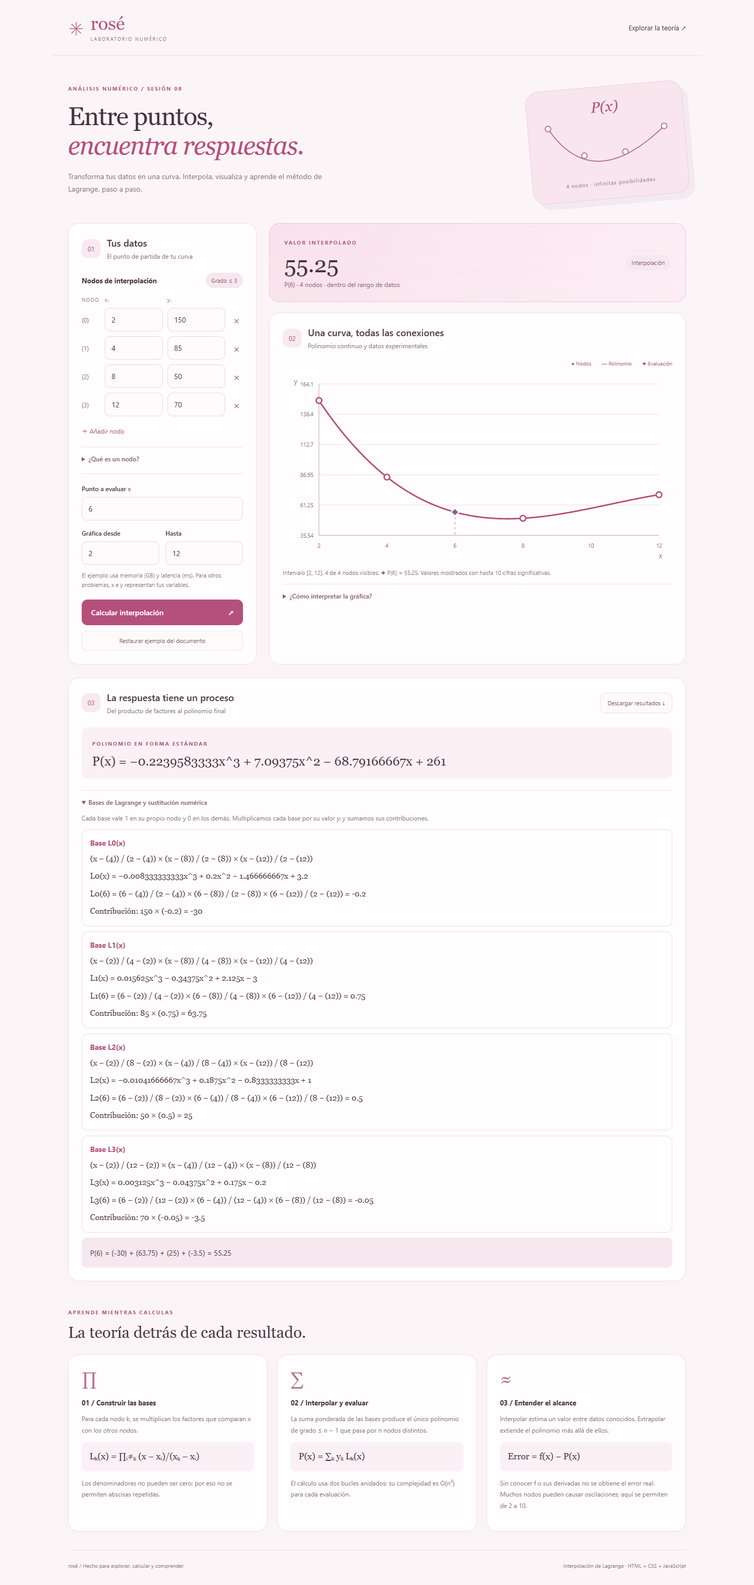
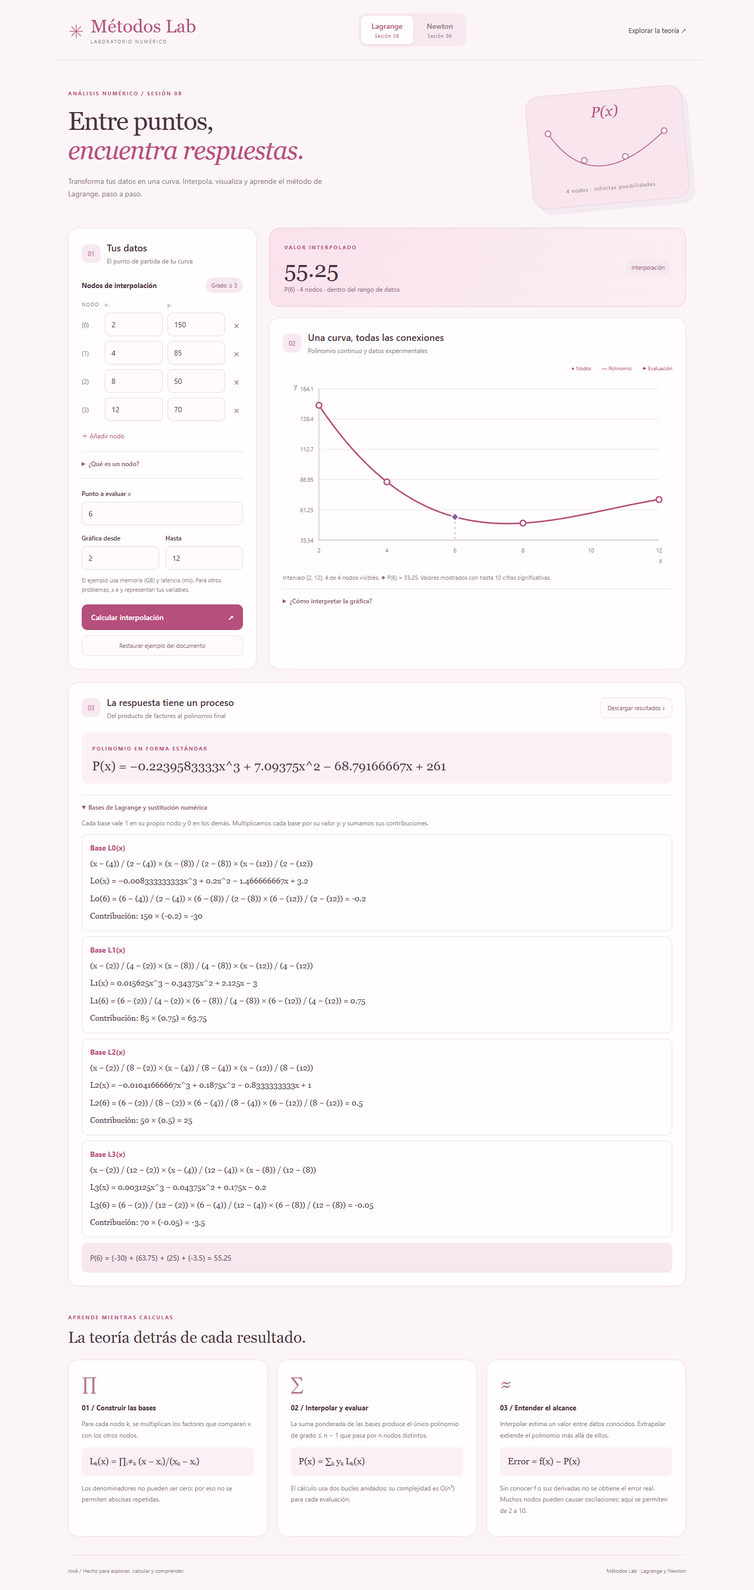
Agregar calculadora newton

diff --git a/script.js b/script.js
@@ -31,6 +31,30 @@ function polynomialBases(nodes) {
     return coefficients;
   });
 }
+// Tabla triangular: table[i][j] = f[x_i, ..., x_(i+j)].
+function diferencias_divididas(X, Y) {
+  if (X.length !== Y.length || X.length < 2 || new Set(X).size !== X.length || ![...X,...Y].every(Number.isFinite)) throw Error('Usa al menos dos nodos finitos con abscisas distintas.');
+  const table = Y.map(y => [y]);
+  for (let j=1;j<X.length;j++) for(let i=0;i<X.length-j;i++)
+    table[i][j]=(table[i+1][j-1]-table[i][j-1])/(X[i+j]-X[i]);
+  return table;
+}
+function newton(nodes, x) {
+  const table = diferencias_divididas(nodes.map(n=>n.x),nodes.map(n=>n.y));
+  const coefficients=table[0];
+  let value=coefficients[coefficients.length-1];
+  for(let i=coefficients.length-2;i>=0;i--) value=coefficients[i]+(x-nodes[i].x)*value;
+  return {value, table, coefficients};
+}
+function newtonPolynomial(nodes, coefficients) {
+  let result=[coefficients.at(-1)];
+  for(let i=coefficients.length-2;i>=0;i--) {
+    const next=Array(result.length+1).fill(0);
+    result.forEach((c,j)=>{next[j]-=nodes[i].x*c;next[j+1]+=c;});
+    next[0]+=coefficients[i];result=next;
+  }
+  return result;
+}
 function fmt(x) { return Object.is(x, -0) || x === 0 ? '0' : Number(x.toPrecision(10)).toString(); }
 function polynomialText(coefficients) {
   const terms = [];
@@ -43,11 +67,18 @@ function polynomialText(coefficients) {
   }
   return terms.join('') || '0';
 }
-if (typeof module !== 'undefined') module.exports = { lagrange, polynomialBases, polynomialText };
+if (typeof module !== 'undefined') module.exports = { lagrange, polynomialBases, polynomialText, diferencias_divididas, newton, newtonPolynomial };
 if (typeof document !== 'undefined') {
   const $ = id => document.getElementById(id);
   const example = [{x:2,y:150},{x:4,y:85},{x:8,y:50},{x:12,y:70}];
   let latest = null;
+  let method = 'lagrange';
+  const saved = {};
+  const originalTheory = document.querySelector('.theory-grid').innerHTML;
+  const originalDescription = $('heroDescription').textContent;
+  const originalHint = $('exampleHint').textContent;
+  const newtonExample = [{x:1,y:45},{x:2,y:65},{x:4,y:110},{x:7,y:220}];
+  const evaluate = (nodes,x) => method==='newton' ? newton(nodes,x) : lagrange(nodes,x);
   function addRow(x = '', y = '') {
     const row = document.createElement('div'); row.className = 'node-row';
     row.innerHTML = '<span class="node-index"></span><input type="number" step="any" required class="node-x"><input type="number" step="any" required class="node-y"><button class="remove" type="button">×</button>';
@@ -76,9 +107,11 @@ if (typeof document !== 'undefined') {
       if (![x,min,max,...nodes.flatMap(n => [n.x,n.y])].every(Number.isFinite)) throw Error('Introduce únicamente números finitos.');
       if (new Set(nodes.map(n => n.x)).size !== nodes.length) throw Error('Los valores de x deben ser distintos. Dos nodos con la misma x provocan una división por cero.');
       if (min >= max) throw Error('El límite inicial de la gráfica debe ser menor que el final.');
-      const result = lagrange(nodes,x), bases = polynomialBases(nodes);
-      const coefficients = Array(nodes.length).fill(0);
+      const result = evaluate(nodes,x), bases = polynomialBases(nodes);
+      if(method==='newton') result.bases = lagrange(nodes,x).bases;
+      let coefficients = Array(nodes.length).fill(0);
       bases.forEach((b,k) => b.forEach((c,j) => {coefficients[j] += c * nodes[k].y;}));
+      if(method==='newton') coefficients=newtonPolynomial(nodes,result.coefficients);
       if (![result.value,...result.bases,...coefficients,...bases.flat()].every(Number.isFinite)) throw Error('Los datos exceden la capacidad numérica. Usa valores de menor magnitud o nodos más separados.');
       const outside = x < Math.min(...nodes.map(n=>n.x)) || x > Math.max(...nodes.map(n=>n.x));
       $('result').textContent = fmt(result.value);
@@ -95,21 +128,22 @@ if (typeof document !== 'undefined') {
         $('bases').append(item);
       });
       $('sum').textContent=`P(${fmt(x)}) = ${nodes.map((n,k)=>`(${fmt(n.y * result.bases[k])})`).join(' + ')} = ${fmt(result.value)}`;
+      if(method==='newton') renderNewton(nodes,x,coefficients);
       draw(nodes,x,result.value,min,max);
-      latest = `INTERPOLACIÓN DE LAGRANGE\nNodos: ${nodes.map(n=>`(${n.x}, ${n.y})`).join(', ')}\nP(x) = ${polynomialText(coefficients)}\n${$('bases').innerText}\n${$('sum').textContent}\nTipo: ${outside?'Extrapolación':'Interpolación'}\nValores redondeados a 10 cifras significativas.\n`;
+      latest = `INTERPOLACIÓN DE ${method.toUpperCase()}\nNodos: ${nodes.map(n=>`(${n.x}, ${n.y})`).join(', ')}\nP(x) = ${polynomialText(coefficients)}\n${method==='newton' ? $('newtonTableSection').innerText : ''}\n${$('bases').innerText}\n${$('sum').textContent}\nTipo: ${outside?'Extrapolación':'Interpolación'}\nValores redondeados a 10 cifras significativas.\n`;
       $('export').disabled = false;
     } catch(e) { $('error').textContent=e.message; $('error').hidden=false; stale(); }
   }
   // SVG sin bibliotecas: muestrea el polinomio para dibujar su curva continua.
   function draw(nodes,x,y,min,max) {
-    const samples=Array.from({length:401},(_,i)=>{const sx=min+(max-min)*i/400;return {x:sx,y:lagrange(nodes,sx).value};});
+    const samples=Array.from({length:401},(_,i)=>{const sx=min+(max-min)*i/400;return {x:sx,y:evaluate(nodes,sx).value};});
     if (!samples.every(p=>Number.isFinite(p.x)&&Number.isFinite(p.y))) throw Error('El intervalo genera desbordamiento. Reduce los límites de la gráfica.');
     const visible=nodes.filter(n=>n.x>=min&&n.x<=max), evalVisible=x>=min&&x<=max;
     const ys=[...samples.map(p=>p.y),...visible.map(p=>p.y),...(evalVisible?[y]:[])];
     let low=Math.min(...ys),high=Math.max(...ys); const pad=(high-low)*.14 || Math.max(1,Math.abs(high)*.1); low-=pad; high+=pad;
     if (!Number.isFinite(high-low) || !Number.isFinite(max-min)) throw Error('El rango es demasiado grande para graficar.');
     const W=700,H=340,L=65,R=24,T=20,B=48,px=v=>L+(v-min)/(max-min)*(W-L-R),py=v=>H-B-(v-low)/(high-low)*(H-T-B);
-    let svg=`<svg viewBox="0 0 ${W} ${H}" role="img" aria-label="Gráfica del polinomio de Lagrange, sus nodos y el punto evaluado"><title>Interpolación de Lagrange</title>`;
+    let svg=`<svg viewBox="0 0 ${W} ${H}" role="img" aria-label="Gráfica del polinomio interpolador, sus nodos y el punto evaluado"><title>Interpolación de ${method}</title>`;
     for(let i=0;i<=5;i++){const vx=min+(max-min)*i/5,vy=low+(high-low)*i/5;svg+=`<path d="M${L} ${py(vy)}H${W-R}" stroke="#efdee5"/><text x="${L-10}" y="${py(vy)+4}" text-anchor="end" fill="#8a7380" font-size="10">${Number(vy.toPrecision(4))}</text><text x="${px(vx)}" y="${H-B+22}" text-anchor="middle" fill="#8a7380" font-size="10">${Number(vx.toPrecision(4))}</text>`;}
     svg+=`<path d="M${L} ${T}V${H-B}H${W-R}" fill="none" stroke="#cbb6c0"/><text x="${W-R}" y="${H-7}" fill="#8a7380" font-size="12">x</text><text x="20" y="20" fill="#8a7380" font-size="12">y</text><path d="${samples.map((p,i)=>`${i?'L':'M'}${px(p.x).toFixed(2)},${py(p.y).toFixed(2)}`).join(' ')}" fill="none" stroke="#b54f7c" stroke-width="2.7"/>`;
     visible.forEach(n=>{svg+=`<circle cx="${px(n.x)}" cy="${py(n.y)}" r="5" fill="#fff" stroke="#b54f7c" stroke-width="2.5"><title>Nodo (${fmt(n.x)}, ${fmt(n.y)})</title></circle>`;});
@@ -117,10 +151,53 @@ if (typeof document !== 'undefined') {
     $('chart').innerHTML=svg+'</svg>';
     $('chartNote').textContent=`Intervalo [${fmt(min)}, ${fmt(max)}]. ${visible.length} de ${nodes.length} nodos visibles. ${evalVisible ? `◆ P(${fmt(x)}) = ${fmt(y)}.` : 'El punto evaluado queda fuera de la gráfica; amplía el intervalo para verlo.'} Valores mostrados con hasta 10 cifras significativas.`;
   }
-  function reset(){ $('nodes').replaceChildren(); example.forEach(n=>addRow(n.x,n.y));$('evalX').value=6;$('minX').value=2;$('maxX').value=12;calculate(); }
+  function renderNewton(nodes,x) {
+    const result=newton(nodes,x), standard=newtonPolynomial(nodes,result.coefficients);
+    if (![result.value,...result.table.flat(),...standard].every(Number.isFinite)) throw Error('Los datos exceden la capacidad numérica.');
+    $('result').textContent=fmt(result.value);
+    $('polynomial').textContent=`P(x) = ${polynomialText(standard)}`;
+    $('newtonTableSection').innerHTML=`<h3>Tabla de diferencias divididas</h3><div class="table-scroll"><table class="difference-table"><thead><tr><th>i</th><th>xᵢ</th>${nodes.map((_,j)=>`<th>${j===0?'f[xᵢ]':`Orden ${j}`}</th>`).join('')}</tr></thead><tbody>${nodes.map((n,i)=>`<tr><td>${i}</td><td>${fmt(n.x)}</td>${nodes.map((_,j)=>`<td>${result.table[i][j]===undefined?'—':fmt(result.table[i][j])}</td>`).join('')}</tr>`).join('')}</tbody></table></div><p class="hint">f[xᵢ,…,xᵢ₊ⱼ] = (f[xᵢ₊₁,…,xᵢ₊ⱼ] − f[xᵢ,…,xᵢ₊ⱼ₋₁]) / (xᵢ₊ⱼ − xᵢ). La primera fila contiene los coeficientes de Newton.</p>`;
+    $('bases').replaceChildren();
+    let product=1;const contributions=[];
+    result.coefficients.forEach((c,k)=>{
+      if(k)product*=x-nodes[k-1].x;
+      contributions.push(c*product);
+      const item=document.createElement('article');item.className='base-item';
+      const factors=nodes.slice(0,k).map(n=>`(x − (${fmt(n.x)}))`).join(' × ') || '1';
+      item.innerHTML=`<strong>Término ${k} · a${k} = ${fmt(c)}</strong><p class="math">${fmt(c)} × ${factors}</p><p class="math">En x = ${fmt(x)}: ${fmt(c)} × (${fmt(product)}) = ${fmt(c*product)}</p>`;
+      $('bases').append(item);
+    });
+    const verification=document.createElement('article');verification.className='base-item';
+    verification.innerHTML='<strong>Verificación en los nodos</strong>'+nodes.map(n=>{const actual=newton(nodes,n.x).value;return `<p class="math">P(${fmt(n.x)}) = ${fmt(actual)} · y = ${fmt(n.y)} · residuo = ${fmt(actual-n.y)}</p>`;}).join('');
+    $('bases').append(verification);
+    $('sum').textContent=`P(${fmt(x)}) = ${contributions.map(c=>`(${fmt(c)})`).join(' + ')} = ${fmt(result.value)}`;
+  }
+  function reset(){ $('nodes').replaceChildren(); (method==='newton'?newtonExample:example).forEach(n=>addRow(n.x,n.y));$('evalX').value=method==='newton'?5:6;$('minX').value=method==='newton'?1:2;$('maxX').value=method==='newton'?7:12;calculate(); }
+  function switchMethod(next) {
+    if(next===method)return;
+    saved[method]={nodes:[...$('nodes').children].map(row=>[row.querySelector('.node-x').value,row.querySelector('.node-y').value]),values:['evalX','minX','maxX'].map(id=>$(id).value)};
+    method=next;
+    document.querySelectorAll('[data-method]').forEach(b=>b.setAttribute('aria-pressed',String(b.dataset.method===method)));
+    const isNewton=method==='newton';
+    $('sessionLabel').textContent=`ANÁLISIS NUMÉRICO / SESIÓN ${isNewton?'09':'08'} · ${method.toUpperCase()}`;
+    $('heroTitle').innerHTML=isNewton?'Paso a paso,<br><em>construye la curva.</em>':'Entre puntos,<br><em>encuentra respuestas.</em>';
+    $('heroDescription').textContent=isNewton?'Explora la latencia de una API con el método de Newton. Construye diferencias divididas, evalúa y verifica cada resultado.':originalDescription;
+    $('exampleHint').textContent=isNewton?'Ejercicio: carga concurrente x en centenas de req/s y latencia y en ms. x = 5 representa 500 req/s.':originalHint;
+    $('processCaption').textContent=isNewton?'De las diferencias divididas al polinomio final':'Del producto de factores al polinomio final';
+    $('processTitle').textContent=isNewton?'Polinomio de Newton y sustitución numérica':'Bases de Lagrange y sustitución numérica';
+    $('processDescription').textContent=isNewton?'Los coeficientes son las diferencias divididas de la primera fila. Cada término incorpora un nuevo factor; la evaluación usa multiplicación anidada.':'Cada base vale 1 en su propio nodo y 0 en los demás. Multiplicamos cada base por su valor yᵢ y sumamos sus contribuciones.';
+    $('newtonTableSection').hidden=!isNewton;
+    document.querySelector('.theory-grid').innerHTML=isNewton?[
+      ['Δ','01 / Diferencias divididas','Se calculan por órdenes a partir de los valores conocidos. Los nodos deben tener abscisas distintas; no necesitan estar igualmente espaciados.','f[xᵢ,xⱼ] = (yⱼ − yᵢ)/(xⱼ − xᵢ)'],
+      ['∑','02 / Construir y evaluar','La primera fila de la tabla aporta los coeficientes. Construir la tabla cuesta O(n²) y evaluar con multiplicación anidada cuesta O(n).','P(x) = a₀ + a₁(x − x₀) + a₂(x − x₀)(x − x₁) + …'],
+      ['≈','03 / Verificar el modelo','Comprueba P(xᵢ) = yᵢ en cada nodo. Newton y Lagrange generan el mismo polinomio para los mismos datos. Extrapolar puede ser poco fiable.','Residuo en el nodo i = P(xᵢ) − yᵢ']
+    ].map(([icon,title,text,formula])=>`<article class="card"><span class="theory-icon">${icon}</span><h3>${title}</h3><p>${text}</p><div class="formula">${formula}</div></article>`).join(''):originalTheory;
+    if(saved[method]) { $('nodes').replaceChildren();saved[method].nodes.forEach(n=>addRow(...n));['evalX','minX','maxX'].forEach((id,i)=>$(id).value=saved[method].values[i]);calculate(); } else reset();
+  }
+  document.querySelectorAll('[data-method]').forEach(b=>b.onclick=()=>switchMethod(b.dataset.method));
   $('calculator').onsubmit=e=>{e.preventDefault();calculate();};
   $('calculator').addEventListener('input',stale);
   $('addNode').onclick=()=>{addRow();stale();}; $('example').onclick=reset;
-  $('export').onclick=()=>{if(!latest)return;const url=URL.createObjectURL(new Blob([latest],{type:'text/plain;charset=utf-8'}));const a=document.createElement('a');a.href=url;a.download='resultado-lagrange.txt';a.click();setTimeout(()=>URL.revokeObjectURL(url),1000);};
+  $('export').onclick=()=>{if(!latest)return;const url=URL.createObjectURL(new Blob([latest],{type:'text/plain;charset=utf-8'}));const a=document.createElement('a');a.href=url;a.download=`resultado-${method}.txt`;a.click();setTimeout(()=>URL.revokeObjectURL(url),1000);};
   reset();
 }

diff --git a/styles.css b/styles.css
@@ -1,1 +1,3 @@
 :root{--ink:#49313e;--muted:#8a7380;--rose:#b54f7c;--border:#efdee5;--light:#fff8fb}*{box-sizing:border-box}html{scroll-behavior:smooth}body{margin:0;background:#fcf5f7;color:var(--ink);font-family:Segoe UI,Arial,sans-serif;font-size:14px}.topbar{max-width:1240px;margin:auto;padding:25px 30px;display:flex;justify-content:space-between;align-items:center;border-bottom:1px solid var(--border)}a{color:inherit;text-decoration:none}.brand{display:flex;align-items:center;gap:12px;font-size:35px;color:var(--rose);font-family:Georgia,serif}.brand-small{display:block;font:9px Segoe UI,sans-serif;letter-spacing:2px;color:var(--muted);margin-top:3px}.theory-link{font-size:13px}main{max-width:1240px;margin:auto;padding:0 30px}.hero{display:flex;justify-content:space-between;align-items:center;padding:52px 0 40px;gap:30px}.eyebrow{font-size:10px;font-weight:700;letter-spacing:2px;color:var(--rose)}h1{font-family:Georgia,serif;font-weight:400;font-size:49px;line-height:1.14;letter-spacing:-1.5px;margin:18px 0}h1 em{color:var(--rose);font-weight:400}.hero p{color:var(--muted);max-width:520px;line-height:1.7}.hero-art{width:300px;transform:rotate(-5deg);border:1px solid #edcfdb;border-radius:26px;background:#f8e5ed;padding:22px 25px;box-shadow:10px 12px 0 #f2eaf0;text-align:center}.hero-art>span{font:italic 28px Georgia;color:var(--rose)}.hero-art svg{width:100%;overflow:visible}.hero-art path{stroke:#b9698b;stroke-width:2;fill:none}.hero-art circle{fill:#fff;stroke:#b9698b;stroke-width:2}.hero-art small{color:var(--muted);font-size:10px;letter-spacing:1px}.workspace{display:grid;grid-template-columns:360px 1fr;gap:24px}.card{background:#fffdfd;border:1px solid var(--border);border-radius:20px;padding:25px;box-shadow:0 7px 25px #76455405}.section-title{display:flex;gap:12px;align-items:center;margin-bottom:24px}.step{display:grid;place-items:center;background:#f8e9f0;border-radius:12px;width:36px;height:36px;font-size:12px;color:var(--rose);flex-shrink:0}h2{font-size:18px;font-weight:600;margin:0 0 5px}.section-title p{font-size:12px;color:var(--muted);margin:0}h3{font-size:13px;margin:0}.label-row{display:flex;align-items:center;justify-content:space-between;margin-bottom:15px}.pill{border-radius:20px;padding:7px 11px;background:#f6e8ef;color:#97516f;font-size:11px}.table-head,.node-row{display:grid;grid-template-columns:35px 1fr 1fr 25px;gap:9px;align-items:center}.table-head{font-size:10px;letter-spacing:1px;color:var(--muted);margin-bottom:9px}.node-row{margin-bottom:9px}.node-index{font-size:12px;color:var(--muted)}input{min-width:0;width:100%;padding:12px;border:1px solid #e8d9e0;border-radius:10px;background:#fffafb;color:var(--ink);font:inherit}input:focus{outline:2px solid #e6abc3;outline-offset:2px}button{font:inherit;cursor:pointer;border:0}button:focus-visible,a:focus-visible,summary:focus-visible{outline:2px solid var(--rose);outline-offset:4px}.remove{background:transparent;color:#97717f;font-size:20px;padding:0}.text-button{background:transparent;color:var(--rose);padding:10px 0;font-size:12px}button:disabled{opacity:.4;cursor:default}details{border-top:1px solid var(--border);padding-top:14px;margin-top:12px}summary{cursor:pointer;font-size:12px;font-weight:600;color:#895569}details p{line-height:1.7;color:var(--muted);font-size:12px}.divider{height:1px;background:var(--border);margin:20px 0}label{display:block;font-size:12px;font-weight:600;margin-bottom:8px}.muted{color:var(--muted)}.range-inputs{display:grid;grid-template-columns:1fr 1fr;gap:12px;margin-top:16px}.hint{color:var(--muted);font-size:11px;line-height:1.65}.primary{width:100%;padding:15px 18px;background:var(--rose);color:white;border-radius:11px;font-weight:600;display:flex;justify-content:space-between;margin-top:18px}.primary:hover{background:#9b3d67}.secondary{border:1px solid var(--border);background:#fffafa;color:#84556b;padding:11px 13px;border-radius:10px;font-size:11px}.input-card .secondary{width:100%;margin-top:10px}#error{color:#a32950;background:#ffeaf0;padding:12px;border-radius:10px;line-height:1.5}.results{display:flex;flex-direction:column;gap:20px;min-width:0}.result-card{display:flex;justify-content:space-between;align-items:center;padding:25px 28px;border:1px solid #eac7d7;border-radius:20px;background:linear-gradient(120deg,#f9e2ec,#fceef4)}#result{font-size:43px;font-family:Georgia,serif;font-weight:400;margin:10px 0 6px}#resultCaption{font-size:12px;color:#8d6176;margin:0}.chart-card{flex:1}.legend{display:flex;gap:20px;justify-content:flex-end;color:var(--rose);font-size:10px;margin-top:-5px;margin-bottom:10px}#chart svg{width:100%;height:auto;display:block}.development{margin-top:25px}.development .section-title .secondary{margin-left:auto}.polynomial-box{background:#fbf1f5;border-radius:12px;padding:20px;margin-bottom:22px}#polynomial{font-family:Georgia,serif;font-size:24px;margin-top:12px;overflow-wrap:anywhere}.base-item{border:1px solid var(--border);border-radius:12px;padding:15px;margin:10px 0;overflow-wrap:anywhere}.base-item strong{color:var(--rose)}.base-item p{margin:8px 0 0}.base-item .math{font:15px Georgia,serif;color:var(--ink);line-height:1.7}.sum{background:#f6e8ee;padding:16px;border-radius:10px;line-height:1.8;overflow-wrap:anywhere}.theory-section{padding:48px 0 35px}.theory-section>h2{font:30px Georgia,serif;margin:13px 0 25px}.theory-grid{display:grid;grid-template-columns:repeat(3,1fr);gap:18px}.theory-grid p{color:var(--muted);font-size:12px;line-height:1.8}.theory-icon{font:35px Georgia;color:#b57190;display:block;margin-bottom:17px}.formula{background:#fbf0f5;padding:15px;border-radius:10px;font:17px Georgia;line-height:1.5}footer{padding:22px 0 30px;border-top:1px solid var(--border);display:flex;justify-content:space-between;font-size:10px;color:var(--muted)}@media(max-width:900px){.workspace{grid-template-columns:300px 1fr}.hero-art{width:220px}h1{font-size:40px}.card{padding:19px}}@media(max-width:700px){main{padding:0 18px}.topbar{padding:20px 18px}.hero{padding:32px 0}.hero-art{display:none}h1{font-size:37px}.workspace,.theory-grid{grid-template-columns:1fr}.legend{justify-content:flex-start}.development .section-title{flex-wrap:wrap}#polynomial{font-size:19px}.result-card{padding:22px}footer{display:block;line-height:2}footer span{display:block}.theory-section>h2{font-size:27px}}@media print{body{background:white}.topbar,.hero-art,button{display:none}.workspace{grid-template-columns:300px 1fr}.card{break-inside:avoid;box-shadow:none}.theory-section{break-before:page}}
+
+.method-nav{display:flex;gap:6px;background:#f8e9f0;padding:5px;border-radius:14px}.method-nav button{padding:10px 20px;border-radius:10px;background:transparent;color:var(--muted);font-weight:600}.method-nav small{display:block;font-size:9px;font-weight:400;margin-top:3px;letter-spacing:1px}.method-nav button[aria-pressed="true"]{background:#fffdfd;color:var(--rose);box-shadow:0 2px 8px #76455412}.table-scroll{overflow-x:auto;margin:16px 0}.difference-table{width:100%;border-collapse:collapse;font-size:12px;white-space:nowrap}.difference-table th,.difference-table td{text-align:right;padding:12px;border-bottom:1px solid var(--border)}.difference-table th{background:#fbf1f5;color:var(--rose)}#newtonTableSection{margin-bottom:24px}[hidden]{display:none!important}@media(max-width:700px){.topbar{flex-wrap:wrap;gap:20px}.brand{font-size:28px}.method-nav{order:3;width:100%}.method-nav button{flex:1}.theory-link{font-size:11px}.result-card{gap:12px;flex-wrap:wrap}}

diff --git a/index.html b/index.html
@@ -3,7 +3,7 @@
   <head>
     <meta charset="UTF-8" />
     <meta name="viewport" content="width=device-width, initial-scale=1.0" />
-    <title>Interpolar · Interpolación de Lagrange</title>
+    <title>Métodos Lab · Laboratorio numérico</title>
     <link rel="stylesheet" href="styles.css" />
     <script src="script.js" defer></script>
   </head>
@@ -12,16 +12,19 @@
       <a class="brand" href="#"
         >✳
         <span
-          >Interpolar<span class="brand-small">LABORATORIO NUMÉRICO</span></span
-        ></a
-      ><a class="theory-link" href="#teoria">Explorar la teoría ↗</a>
-    </header>
+          >Métodos Lab<span class="brand-small">LABORATORIO NUMÉRICO</span></span
+        >
+        </a
+      ><nav class="method-nav" aria-label="Temas de métodos numéricos"><button type="button" data-method="lagrange" aria-pressed="true">Lagrange <small>Sesión 08</small></button><button type="button" data-method="newton" aria-pressed="false">Newton <small>Sesión 09</small></button></nav><a class="theory-link" href="#teoria">Explorar la teoría ↗</a>
+              <span class="brand-small">Antonella Baldeon</span>
+  
+  </header>
     <main>
       <section class="hero">
         <div>
-          <span class="eyebrow">ANÁLISIS NUMÉRICO / SESIÓN 08</span>
-          <h1>Entre puntos,<br /><em>encuentra respuestas.</em></h1>
-          <p>
+          <span class="eyebrow" id="sessionLabel">ANÁLISIS NUMÉRICO / SESIÓN 08</span>
+          <h1 id="heroTitle">Entre puntos,<br /><em>encuentra respuestas.</em></h1>
+          <p id="heroDescription">
             Transforma tus datos en una curva. Interpola, visualiza y aprende el
             método de Lagrange, paso a paso.
           </p>
@@ -86,7 +89,7 @@
                 />
               </div>
             </div>
-            <p class="hint">
+            <p class="hint" id="exampleHint">
               El ejemplo usa memoria (GB) y latencia (ms). Para otros problemas,
               x e y representan tus variables.
             </p>
@@ -138,7 +141,7 @@
           <span class="step">03</span>
           <div>
             <h2>La respuesta tiene un proceso</h2>
-            <p>Del producto de factores al polinomio final</p>
+            <p id="processCaption">Del producto de factores al polinomio final</p>
           </div>
           <button id="export" class="secondary">Descargar resultados ↓</button>
         </div>
@@ -146,9 +149,10 @@
           <span class="eyebrow">POLINOMIO EN FORMA ESTÁNDAR</span>
           <div id="polynomial"></div>
         </div>
+        <div id="newtonTableSection" hidden></div>
         <details open>
-          <summary>Bases de Lagrange y sustitución numérica</summary>
-          <p>
+          <summary id="processTitle">Bases de Lagrange y sustitución numérica</summary>
+          <p id="processDescription">
             Cada base vale 1 en su propio nodo y 0 en los demás. Multiplicamos
             cada base por su valor yᵢ y sumamos sus contribuciones.
           </p>
@@ -203,7 +207,7 @@
       </section>
       <footer>
         rosé / Hecho para explorar, calcular y comprender.<span
-          >Interpolación de Lagrange · HTML + CSS + JavaScript</span
+          >Métodos Lab · Lagrange y Newton</span
         >
       </footer>
     </main>

diff --git a/README.md b/README.md
@@ -1,35 +1,18 @@
-# Rosé · Calculadora de interpolación de Lagrange
+# Métodos Lab · Laboratorio numérico
 
-## Cómo usar
+Abre index.html en tu navegador. No requiere instalación ni conexión a internet.
 
-Abre `index.html` con doble clic en Chrome, Edge o Firefox. No requiere instalación, servidor ni conexión a internet. Conserva `index.html`, `styles.css` y `script.js` en la misma carpeta.
+Selecciona Lagrange (sesión 08) o Newton (sesión 09) en el navbar. Cada sección conserva sus datos mientras cambias de tema y comparte el diseño rosado, los nodos editables, la gráfica, el desarrollo, la teoría y la descarga de resultados.
 
-1. Ingresa los nodos (x, y). Cada x debe ser diferente.
-2. Indica el punto a evaluar y el intervalo de la gráfica.
-3. Pulsa **Calcular interpolación**.
-4. Revisa el resultado, las bases, el polinomio y las contribuciones. **Descargar resultados** guarda el desarrollo en un archivo de texto.
+- Lagrange: ejemplo de memoria y latencia. P(6) = 55,25.
+- Newton: ejemplo de carga y latencia del documento de sesión 09. Nodos (1,45), (2,65), (4,110), (7,220). x se mide en centenas de req/s. P(5) = 139 ms.
+- Newton muestra la tabla triangular completa, los coeficientes, las contribuciones de cada término, el polinomio estándar y los residuos en los nodos.
+- Ambas secciones admiten entre 2 y 10 nodos y un intervalo de gráfica configurable. Pulsa Calcular interpolación después de editar.
 
-El botón **Restaurar ejemplo del documento** carga (2,150), (4,85), (8,50), (12,70), evalúa x = 6 y grafica en [2,12]. La latencia interpolada es **55,25 ms**.
+Newton usa diferencias divididas y evaluación por multiplicación anidada. Su polinomio del ejemplo es P(x) = x³/3 − 3x²/2 + 133x/6 + 24.
 
-## Requisitos de la parte dos
+JavaScript utiliza doble precisión; la pantalla redondea a 10 cifras significativas. Extrapolar puede ser poco fiable.
 
-- Cuatro nodos editables y punto de evaluación editable.
-- Algoritmo directo de Lagrange con bucles anidados O(n²).
-- Resultado numérico, curva en [2,12], nodos experimentales y punto evaluado destacado.
-- Extensión para otros problemas: de 2 a 10 nodos e intervalo configurable.
-- Teoría de nodos, bases, evaluación, gráfica y extrapolación.
-- Desarrollo algebraico de las bases y del polinomio en forma estándar.
+Archivos: index.html, styles.css y script.js deben permanecer juntos.
 
-## Archivos
-
-- `index.html`: estructura y contenido educativo.
-- `styles.css`: diseño rosado pastel y adaptación a móvil.
-- `script.js`: motor matemático, validación, gráfica SVG y exportación.
-
-## Precisión y alcance
-
-JavaScript utiliza números de doble precisión. Se muestran hasta 10 cifras significativas; los cálculos conservan la precisión disponible. El grado es como máximo n − 1; puede ser menor si los datos lo permiten. El polinomio desarrollado puede acumular redondeo con nodos cercanos o valores grandes. La evaluación utiliza directamente la fórmula de Lagrange. Interpolar no garantiza que el modelo reproduzca un fenómeno físico; la extrapolación se identifica en pantalla.
-
-## Validación
-
-Se verificaron P(6) = 55,25, el paso por todos los nodos, la concordancia entre el polinomio desarrollado y Lagrange y un caso lineal. Se revisó la interfaz en Edge a 1440 px y 390 px, y se comprobaron nodos repetidos, extrapolación, adición de nodos e intervalo inválido.
+Validación: pruebas en Edge de ambos ejemplos, navegación con conservación de datos, nodos repetidos, extrapolación, adición de nodos, intervalo inválido y ausencia de desbordamiento horizontal a 390 px. Revisión visual de Newton en escritorio y móvil.
